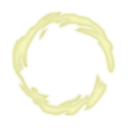
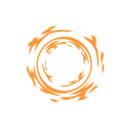
Added card Added card tag for Shift cards Modified orb images

diff --git a/src/main/java/Chen/Cards/Skills/Adaptability.java b/src/main/java/Chen/Cards/Skills/Adaptability.java
@@ -1,0 +1,85 @@
+package Chen.Cards.Skills;
+
+import Chen.Abstracts.ShiftChenCard;
+import Chen.Util.CardInfo;
+import Chen.Variables.SpellDamage;
+import com.megacrit.cardcrawl.actions.AbstractGameAction;
+import com.megacrit.cardcrawl.actions.common.DamageAction;
+import com.megacrit.cardcrawl.actions.common.GainBlockAction;
+import com.megacrit.cardcrawl.cards.AbstractCard;
+import com.megacrit.cardcrawl.cards.DamageInfo;
+import com.megacrit.cardcrawl.characters.AbstractPlayer;
+import com.megacrit.cardcrawl.dungeons.AbstractDungeon;
+import com.megacrit.cardcrawl.monsters.AbstractMonster;
+
+import static Chen.ChenMod.makeID;
+import static Chen.Patches.CardTagsEnum.CHEN_SHIFT_CARD;
+
+public class Adaptability extends ShiftChenCard {
+    private final static CardInfo cardInfo = new CardInfo(
+            "Adaptability",
+            2,
+            CardType.SKILL,
+            CardTarget.SELF,
+            CardRarity.COMMON
+    );
+
+    public final static String ID = makeID(cardInfo.cardName);
+
+    public Adaptability()
+    {
+        super(cardInfo, CardType.ATTACK, CardTarget.ENEMY,false);
+    }
+
+    @Override
+    public void applyPowers() {
+        this.baseBlock = countShiftCards();
+        this.baseDamage = this.baseBlock;
+
+        if (this.Form) {
+            this.rawDescription = descriptionA + cardStrings.EXTENDED_DESCRIPTION[2];
+            this.initializeDescription();
+        }
+        else {
+            this.rawDescription = descriptionA + cardStrings.EXTENDED_DESCRIPTION[3];
+            this.initializeDescription();
+        }
+        super.applyPowers();
+    }
+
+    private int countShiftCards()
+    {
+        int count = 0;
+
+        for (AbstractCard c : AbstractDungeon.player.hand.group)
+        {
+            if (c.tags.contains(CHEN_SHIFT_CARD))
+                count++;
+        }
+        for (AbstractCard c : AbstractDungeon.player.discardPile.group)
+        {
+            if (c.tags.contains(CHEN_SHIFT_CARD))
+                count++;
+        }
+        for (AbstractCard c : AbstractDungeon.player.drawPile.group)
+        {
+            if (c.tags.contains(CHEN_SHIFT_CARD))
+                count++;
+        }
+
+        return count;
+    }
+
+    public void use(AbstractPlayer p, AbstractMonster m) {
+        if (Form)
+        {
+            AbstractDungeon.actionManager.addToBottom(new GainBlockAction(p, p, this.block));
+        }
+        else
+        {
+            AbstractDungeon.actionManager.addToBottom(new DamageAction(m,
+                    new DamageInfo(p, this.damage, this.damageTypeForTurn),
+                    AbstractGameAction.AttackEffect.SMASH));
+        }
+    }
+}

diff --git a/src/main/java/Chen/Abstracts/ShiftChenCard.java b/src/main/java/Chen/Abstracts/ShiftChenCard.java
@@ -12,6 +12,8 @@ import com.megacrit.cardcrawl.dungeons.AbstractDungeon;
 import com.megacrit.cardcrawl.helpers.GameDictionary;
 import com.megacrit.cardcrawl.powers.AbstractPower;
 
+import static Chen.Patches.CardTagsEnum.CHEN_SHIFT_CARD;
+
 public abstract class ShiftChenCard extends BaseCard {
     protected boolean Form; //true = A, false = B
 
@@ -59,6 +61,8 @@ public abstract class ShiftChenCard extends BaseCard {
     public ShiftChenCard(String cardName, int cost, CardType cardTypeA, CardType cardTypeB, CardTarget cardTargetA, CardTarget cardTargetB, CardRarity rarity, boolean upgradesDescription)
     {
         super(cardName, cost, cardTypeA, cardTargetA, rarity, upgradesDescription);
+
+        this.tags.add(CHEN_SHIFT_CARD);
 
         this.cardTypeA = cardTypeA;
         this.cardTypeB = cardTypeB;

diff --git a/src/main/java/Chen/Character/Chen.java b/src/main/java/Chen/Character/Chen.java
@@ -63,6 +63,8 @@ public class Chen extends TwoFormCharacter {
             assetPath("img/Character/orb/layer5d.png")
     };
 
+    private static final float[] layerSpeeds = new float[]{0F, 30.0F, -40.0F, 0.0F, 10.0F};
+
     public Chen(String name, PlayerClass setClass) {
         super(name,
                 setClass,

diff --git a/src/main/java/Chen/Patches/CardTagsEnum.java b/src/main/java/Chen/Patches/CardTagsEnum.java
@@ -1,0 +1,8 @@
+package Chen.Patches;
+
+import com.evacipated.cardcrawl.modthespire.lib.SpireEnum;
+import com.megacrit.cardcrawl.cards.AbstractCard;
+
+public class CardTagsEnum {
+    @SpireEnum public static AbstractCard.CardTags CHEN_SHIFT_CARD;
+}
